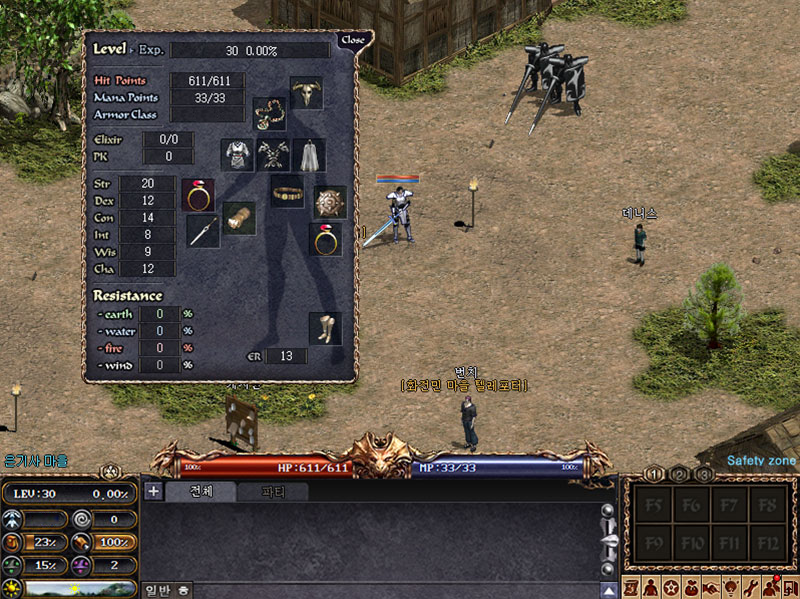
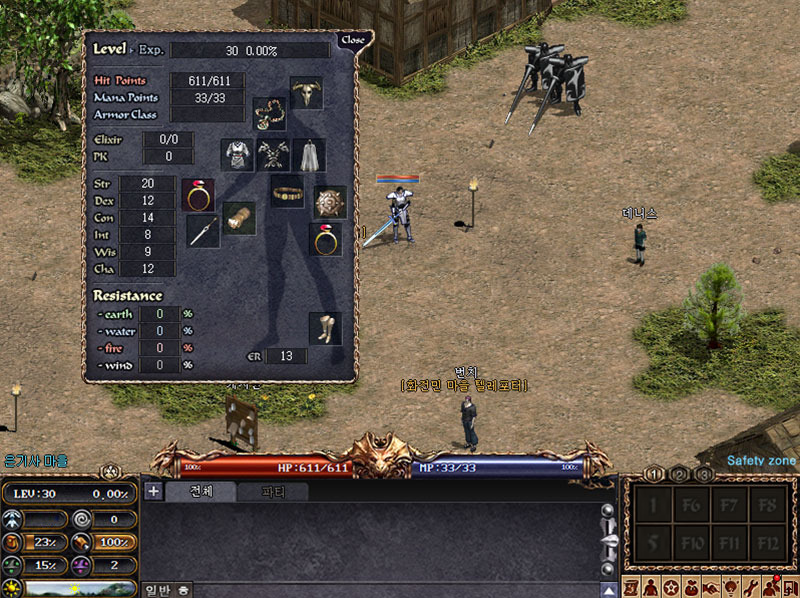
changed base image

diff --git a/src/Scrolls.vue b/src/Scrolls.vue
@@ -4,8 +4,8 @@ import { onMounted, ref } from "vue";
 const dom = ref();
 onMounted(() => {
   // 為了一開始就跑空白預設樣式，所以在mounted時，新增class
-  dom.value.children[3].classList.add("empty-default");
-  dom.value.children[7].classList.add("empty-default");
+  dom.value.children[0].classList.add("empty-default");
+  dom.value.children[4].classList.add("empty-default");
   window.addEventListener("keypress", keyboardToggleActive);
 });
 
@@ -13,43 +13,43 @@ onMounted(() => {
 const slotList = ref([
   {
     id: 0,
+    title: "空格",
+    url: "/src/assets/scroll_empty-slot.jpg",
+  },
+  {
+    id: 1,
     title: "對武器施法的卷軸",
     url: "/src/assets/scroll_white-weapon.png",
   },
   {
-    id: 1,
+    id: 2,
     title: "祝福的對武器施法的卷軸",
     url: "/src/assets/scroll_blessed-weapon.png",
   },
   {
-    id: 2,
+    id: 3,
     title: "受詛咒的對武器施法的卷軸",
     url: "/src/assets/scroll_cursed-weapon.png",
   },
   {
-    id: 3,
+    id: 4,
     title: "空格",
     url: "/src/assets/scroll_empty-slot.jpg",
   },
   {
-    id: 4,
+    id: 5,
     title: "對盔甲施法的卷軸",
     url: "/src/assets/scroll_white-armor.png",
   },
   {
-    id: 5,
+    id: 6,
     title: "祝福的對盔甲施法的卷軸",
     url: "/src/assets/scroll_blessed-armor.png",
   },
   {
-    id: 6,
+    id: 7,
     title: "受詛咒的對盔甲施法的卷軸",
     url: "/src/assets/scroll_cursed-armor.png",
-  },
-  {
-    id: 7,
-    title: "空格",
-    url: "/src/assets/scroll_empty-slot.jpg",
   },
 ]);
 // 鍵盤觸發event事件，window為全畫面媒介，切換1 ~ 8。
@@ -58,48 +58,50 @@ function keyboardToggleActive(e) {
   const slotListKeyboard = Array.from(
     e.target.children[0].children[0].children[2].children
   );
+  console.log("keyboard", slotListKeyboard);
   slotListKeyboard.forEach((slotKeyboard) => {
     slotKeyboard.classList.remove("active");
   });
   switch (e.key) {
     // 按鍵1，白武 +1
     case "1":
-      console.log("白武，參數+1");
+      console.log("空格");
       slotListKeyboard[0].classList.add("active");
       break;
     // 按鍵2，祝武 +1 ~ +3
     case "2":
-      console.log("祝武，參數+1 - 3");
+      console.log("白武，參數+1");
       slotListKeyboard[1].classList.add("active");
       break;
     // 按鍵3，紅武 -1
     case "3":
-      console.log("紅武，參數-1");
+      console.log("祝武，參數+1 - 3");
       slotListKeyboard[2].classList.add("active");
       break;
     // 按鍵4，空格
     case "4":
-      console.log("空格");
+      console.log("紅武，參數-1");
+
       slotListKeyboard[3].classList.add("active");
       break;
     // 按鍵5，白防 ＋1
     case "5":
-      console.log("白防，參數+1");
+      console.log("空格");
       slotListKeyboard[4].classList.add("active");
       break;
     // 按鍵6，祝防 +1 ~ +3
     case "6":
-      console.log("祝防，參數+1 - 3");
+      console.log("白防，參數+1");
       slotListKeyboard[5].classList.add("active");
       break;
     // 按鍵7，紅防 -1
     case "7":
-      console.log("紅防，參數-1");
+      console.log("祝防，參數+1 - 3");
       slotListKeyboard[6].classList.add("active");
       break;
     // 按鍵8，空格
     case "8":
-      console.log("空格");
+      console.log("紅防，參數-1");
       slotListKeyboard[7].classList.add("active");
       break;
     // 其他，不回應
@@ -112,7 +114,7 @@ function keyboardToggleActive(e) {
 function mouseToggleActive(e) {
   const target = e.target;
   const slotListMouse = target.parentElement.querySelectorAll("img");
-
+  console.log("mouse", slotListMouse);
   slotListMouse.forEach((slotMouse) => {
     // 為了切換樣式功能，把全部的active移除
     slotMouse.classList.remove("active");
